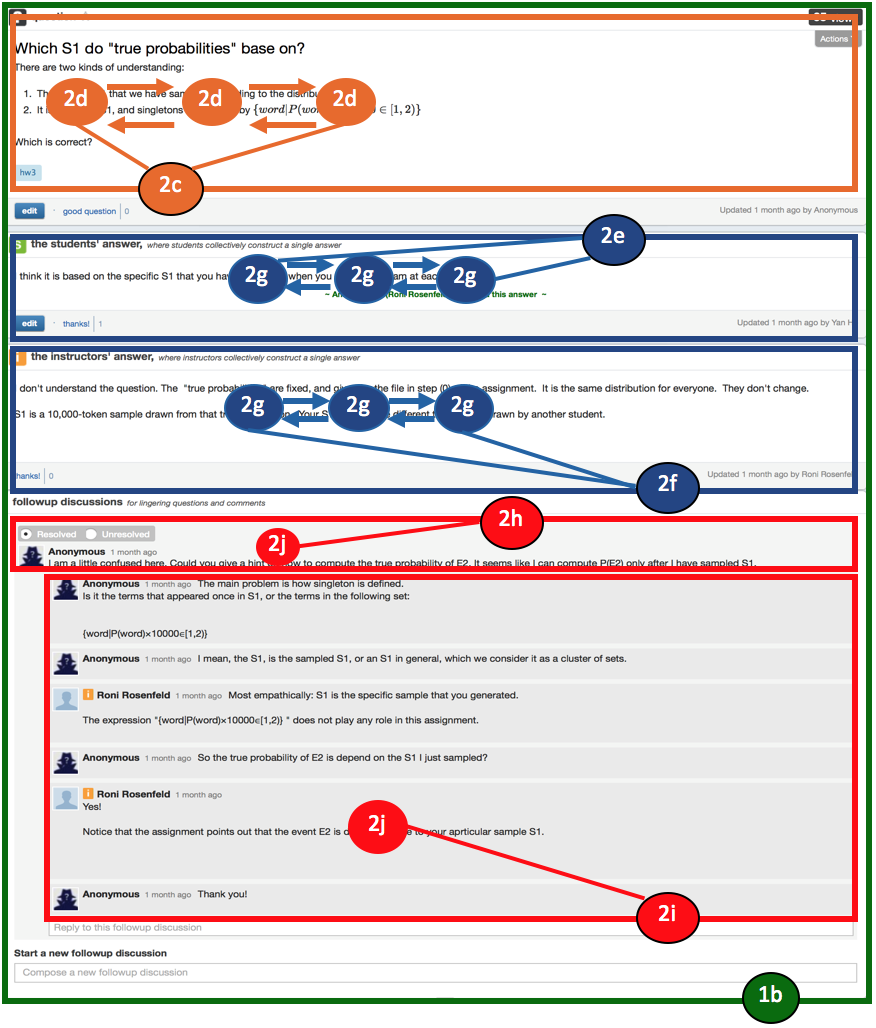
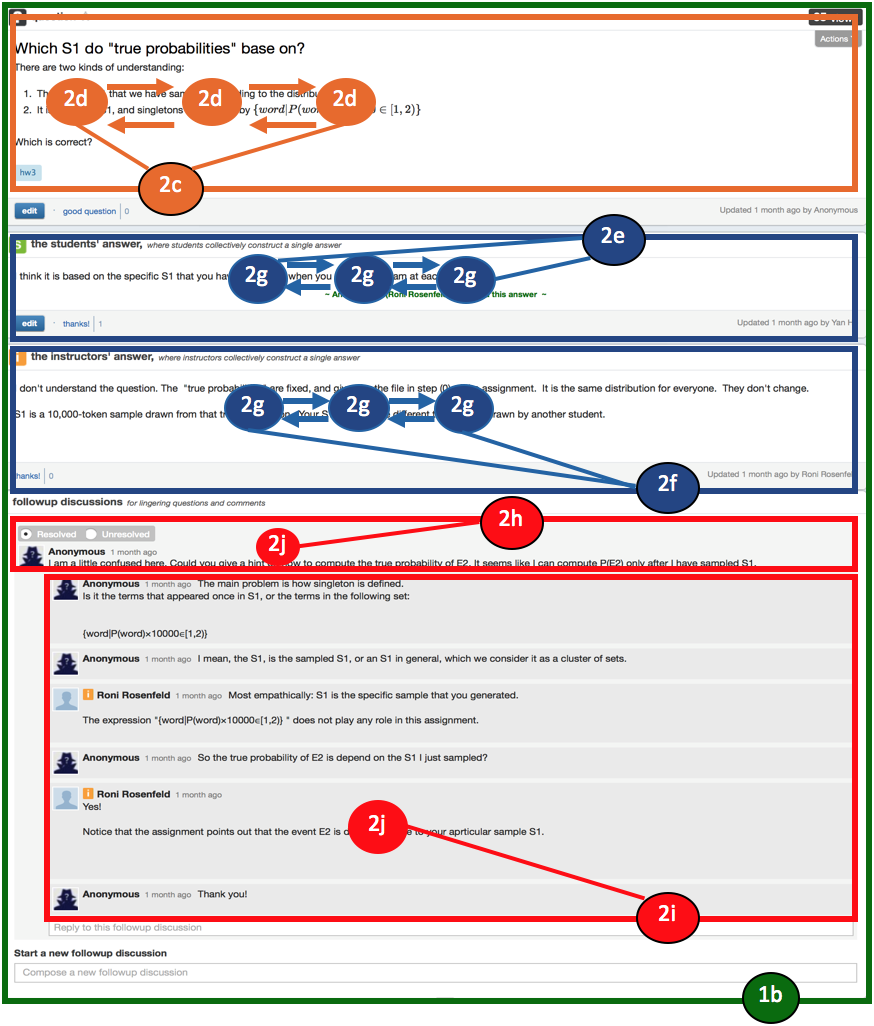
Minor changes

diff --git a/discoursedb-io-piazza/README.md b/discoursedb-io-piazza/README.md
@@ -23,14 +23,18 @@ This section outlines how discussion data (including question posts and note pos
 
 
 ### Visual Overview
- <img src="img/norelations_1.png" width = "200" height = "300" align=center />
-  <img src="img/norelations_2.png" width = "200" height = "300" align=center />
-<table width="100%" border="0">
+<div style=" width: 100%; text-align:center">
+ <img src="img/norelations.png" width = "600" height = "360" align=center />
+  </div>
+  
+<div style=" width: 100%; text-align:center">
+<table width="60%" border="0">
   <tr border="0">
     <td align="center"><img src="img/contentrelations.png"/><p>Content Relations</p></td>
     <td align="center"><img src="img/dpcontribrelations.png"/><p>DiscoursePart Relations</p></tr>
   </tr>
 </table>
+</div>
 
 ### Artifact Mappings
 | Artifact Number | Source Artifact  | DiscourseDB Entity | DiscourseDB Type |Comments |
